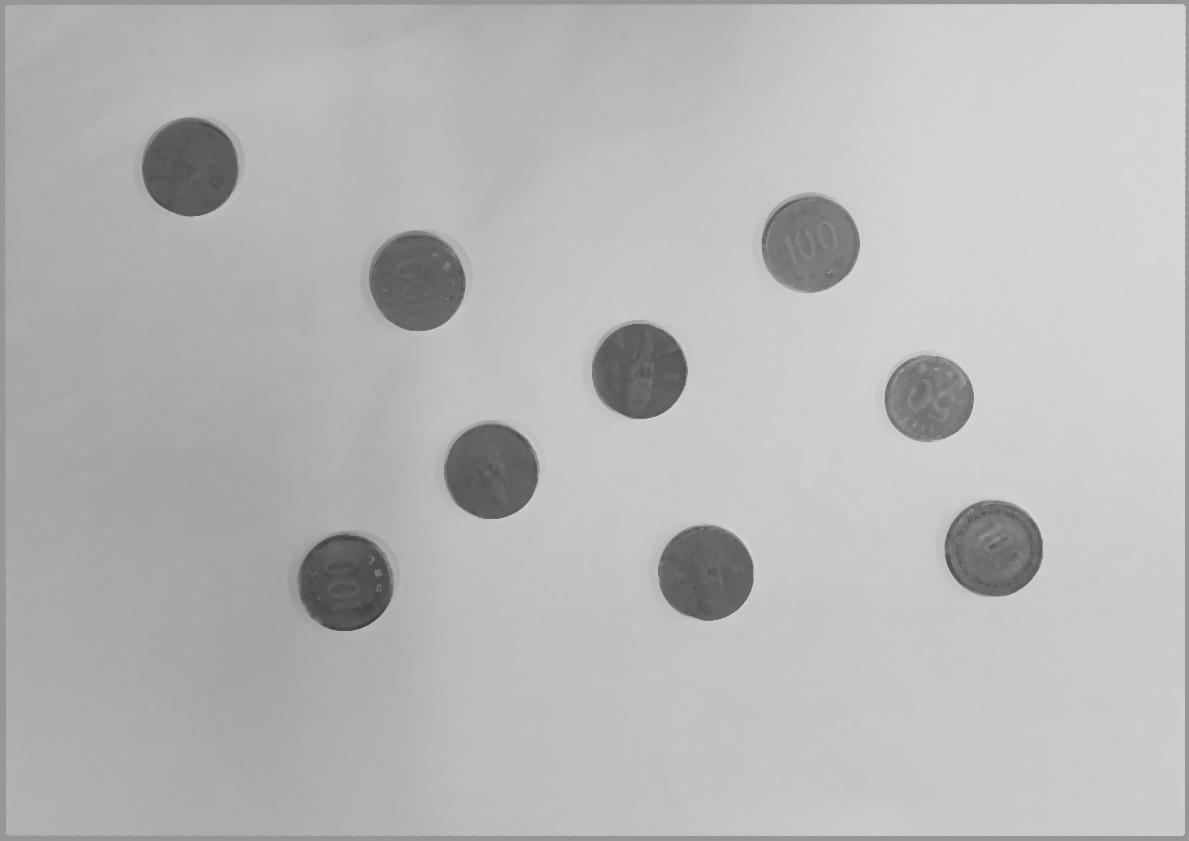
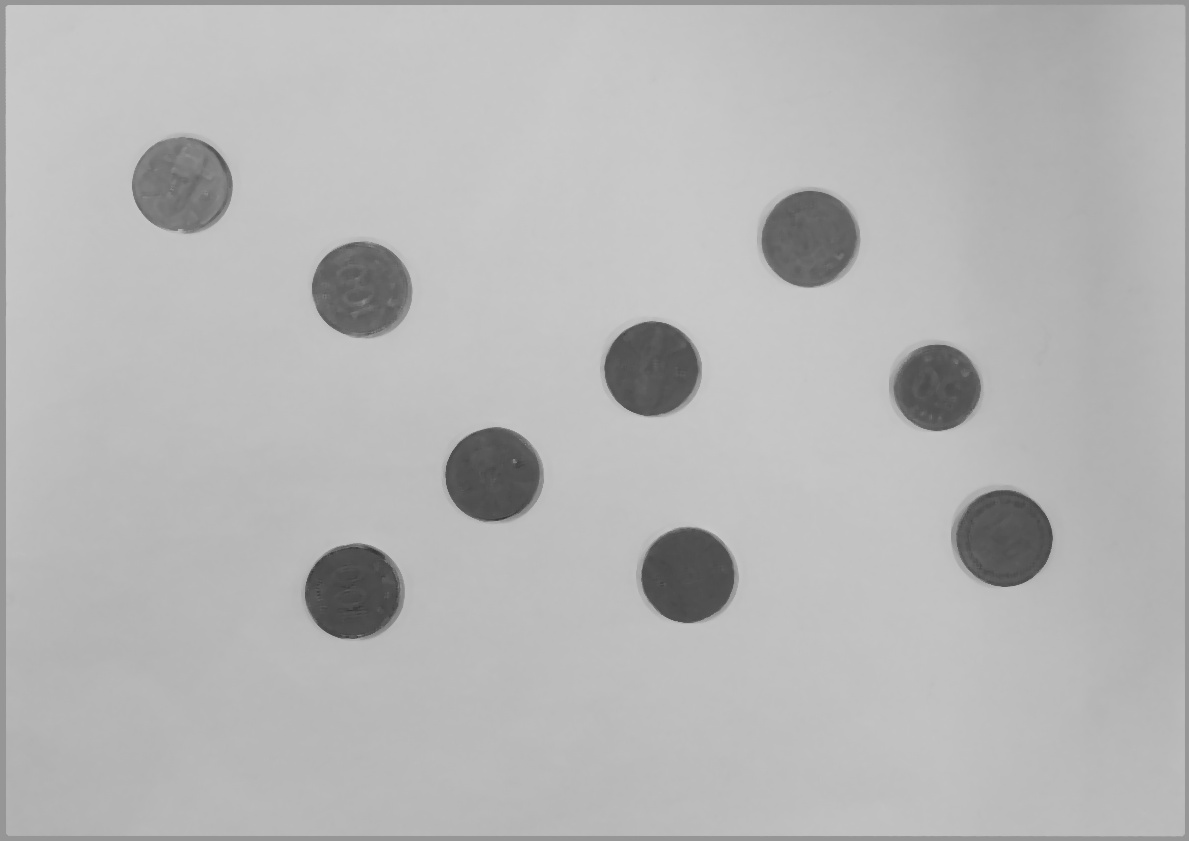
change

diff --git a/django/coinproject/coinapp/templates/totallist.html b/django/coinproject/coinapp/templates/totallist.html
@@ -85,9 +85,59 @@
               <h4 class="text-uppercase m-0">원본 사진</h4>
               <hr class="my-4">
               <div class="small text-black-50">
-              {% for pic in image.pic_set.all%}
-                <img src="{{pic.image.url}}" width="300"alt="picture">
-            {% endfor %}
+              <img src='{% static "coinapp/result/images/img_ori.jpg"%}' width="300"alt="picture">
+              </div>
+            </div>
+          </div>
+        </div>
+        
+        <div class="col-md-4 mb-4 mb-md-0">
+          <div class="card py-4 h-100">
+            <div class="card-body text-center">
+              <i class="fas fa-file-image text-primary mb-2"></i>
+              <h4 class="text-uppercase m-0">Blurring</h4>
+              <hr class="my-4">
+              <div class="small text-black-50">
+              <img src='{% static "coinapp/result/images/dst2.jpg"%}' width="300"alt="picture">
+              </div>
+            </div>
+          </div>
+        </div>
+        
+        <div class="col-md-4 mb-4 mb-md-0">
+          <div class="card py-4 h-100">
+            <div class="card-body text-center">
+              <i class="fas fa-file-image text-primary mb-2"></i>
+              <h4 class="text-uppercase m-0">adaptiveThreshold</h4>
+              <hr class="my-4">
+              <div class="small text-black-50">
+              <img src='{% static "coinapp/result/images/binary_img.jpg"%}' width="300"alt="picture">
+              
+              </div>
+            </div>
+          </div>
+        </div>
+        <div class="col-md-4 mb-4 mb-md-0">
+          <div class="card py-4 h-100">
+            <div class="card-body text-center">
+              <i class="fas fa-file-image text-primary mb-2"></i>
+              <h4 class="text-uppercase m-0">drawContours</h4>
+              <hr class="my-4">
+              <div class="small text-black-50">
+              <img src='{% static "coinapp/result/images/drawContoursimg.jpg"%}' width="300"alt="picture">
+              </div>
+            </div>
+          </div>
+        </div>
+        
+        <div class="col-md-4 mb-4 mb-md-0">
+          <div class="card py-4 h-100">
+            <div class="card-body text-center">
+              <i class="fas fa-file-image text-primary mb-2"></i>
+              <h4 class="text-uppercase m-0">warpPerspective</h4>
+              <hr class="my-4">
+              <div class="small text-black-50">
+              <img src='{% static "coinapp/result/images/warpPerspectiveimg.jpg"%}' width="300"alt="picture">
               </div>
             </div>
           </div>
@@ -105,29 +155,10 @@
             </div>
           </div>
         </div>
-        
-        <div class="col-md-4 mb-4 mb-md-0">
-          <div class="card py-4 h-100">
-            <div class="card-body text-center">
-              <i class="fas fa-coins text-primary mb-2"></i>
-              <h4 class="text-uppercase m-0">결과</h4>
-              <hr class="my-4">
-              <div class="small text-black-50">
-              <br><br>
-      <p>500원: {{fivehund}}개</p>
-      <p>100원: {{onehund}}개</p>
-      <p>50원: {{fifty}}개</p>
-      <p>10원: {{ten}}개</p>
-      <p>동전 총합: {{total}}원</p>
-              </div>
-            </div>
-          </div>
-        </div>
       </div>
       <div class="center2">
          <br>
           <a href="/#projects" class="btn btn-dark">다시하기</a>
-          <a href="../totallist/#projects" class="btn btn-dark">중간과정보기</a>
       </div>
   </section>
 

diff --git a/django/coinproject/coinapp/templates/index.html b/django/coinproject/coinapp/templates/index.html
@@ -9,7 +9,7 @@
   <meta name="description" content="">
   <meta name="author" content="">
 
-  <title>Grayscale - Start Bootstrap Theme</title>
+  <title>How Much is It - Image Processing Team1</title>
 
   <!-- Bootstrap core CSS -->
   <link href='{% static "coinapp/vendor/bootstrap/css/bootstrap.min.css"%}' rel="stylesheet">
@@ -29,7 +29,7 @@
   <!-- Navigation -->
   <nav class="navbar navbar-expand-lg navbar-light fixed-top" id="mainNav">
     <div class="container">
-      <a class="navbar-brand js-scroll-trigger" href="#page-top">Start Bootstrap</a>
+      <a class="navbar-brand js-scroll-trigger" href="#page-top">Image Processing Team1</a>
       <button class="navbar-toggler navbar-toggler-right" type="button" data-toggle="collapse" data-target="#navbarResponsive" aria-controls="navbarResponsive" aria-expanded="false" aria-label="Toggle navigation">
         Menu
         <i class="fas fa-bars"></i>
@@ -43,7 +43,7 @@
             <a class="nav-link js-scroll-trigger" href="#projects">Projects</a>
           </li>
           <li class="nav-item">
-            <a class="nav-link js-scroll-trigger" href="#signup">Contact</a>
+            <a class="nav-link js-scroll-trigger" href="#signup">Developer</a>
           </li>
         </ul>
       </div>
@@ -54,8 +54,8 @@
   <header class="masthead">
     <div class="container d-flex h-100 align-items-center">
       <div class="mx-auto text-center">
-        <h1 class="mx-auto my-0 text-uppercase">Grayscale</h1>
-        <h2 class="text-white-50 mx-auto mt-2 mb-5">A free, responsive, one page Bootstrap theme created by Start Bootstrap.</h2>
+        <h1 class="mx-auto my-0 text-uppercase">How Much is It</h1>
+        <h2 class="text-white-50 mx-auto mt-2 mb-5">A free, comfortable, one click detecting system created by Image_Processing_Team_01</h2>
         <a href="#about" class="btn btn-primary js-scroll-trigger">Get Started</a>
       </div>
     </div>
@@ -78,10 +78,10 @@
   <section id="projects" class="projects-section bg-light">
   <div class="row center">
 
-        <div class="col-md-6 mb-6 mb-md-0">
+        <div class="col-md-6">
           <div class="card py-4 h-100">
             <div class="card-body text-center">
-              <i class="fas fa-map-marked-alt text-primary mb-2"></i>
+              <i class="fas fa-camera text-primary mb-2"></i>
               <h4 class="text-uppercase m-0">사진 올리기</h4>
               <hr class="my-4">
               <div class="small text-black-50">

diff --git a/django/coinproject/coinapp/static/coinapp/css/grayscale.css b/django/coinproject/coinapp/static/coinapp/css/grayscale.css
@@ -90,7 +90,7 @@
   height: auto;
   min-height: 35rem;
   padding: 15rem 0;
-  background: linear-gradient(to bottom, rgba(22, 22, 22, 0.3) 0%, rgba(22, 22, 22, 0.7) 75%, #161616 100%), url("../img/bg-masthead.jpg");
+  background: linear-gradient(to bottom, rgba(22, 22, 22, 0.3) 0%, rgba(22, 22, 22, 0.7) 75%, #161616 100%), url("../img/coinproject.jpg");
   background-position: center;
   background-repeat: no-repeat;
   background-attachment: scroll;
@@ -204,7 +204,7 @@
 
 .signup-section {
   padding: 10rem 0;
-  background: linear-gradient(to bottom, rgba(22, 22, 22, 0.1) 0%, rgba(22, 22, 22, 0.5) 75%, #161616 100%), url("../img/bg-signup.jpg");
+  background: linear-gradient(to bottom, rgba(22, 22, 22, 0.1) 0%, rgba(22, 22, 22, 0.5) 75%, #161616 100%), url("../img/coinfoot.png");
   background-position: center;
   background-repeat: no-repeat;
   background-attachment: scroll;
@@ -297,7 +297,7 @@ footer {
 
 
 .center{
-    padding: 0 0 0 550px;
+    margin-left: 450px;
     text-align: center;
 }
 .center2{

diff --git a/django/coinproject/coinapp/.ipynb_checkpoints/views-checkpoint.py b/django/coinproject/coinapp/.ipynb_checkpoints/views-checkpoint.py
@@ -55,6 +55,7 @@ def imagelist(request):
         url = pic.image.url
         img = cv2.imread(url[1:])
         img_ori = img.copy()
+        cv2.imwrite('coinapp/static/coinapp/result/images/img_ori.jpg', img_ori)
         img_gray = cv2.cvtColor(img,cv2.COLOR_BGR2GRAY)
         cv2.imwrite('coinapp/static/coinapp/result/images/img_gray.jpg', img_gray)
         # Blurring
@@ -186,3 +187,6 @@ def imagelist(request):
         total = (500 * fivehund + 100 * onehund + 50 * fifty + 10 * ten)
         
     return render(request, 'imagelist.html', {'image':image, 'fivehund':fivehund, 'onehund':onehund, 'fifty':fifty, 'ten':ten, 'total':total})
+
+def totallist(request):
+    return render(request, 'totallist.html')

diff --git a/django/coinproject/coinapp/views.py b/django/coinproject/coinapp/views.py
@@ -55,6 +55,7 @@ def imagelist(request):
         url = pic.image.url
         img = cv2.imread(url[1:])
         img_ori = img.copy()
+        cv2.imwrite('coinapp/static/coinapp/result/images/img_ori.jpg', img_ori)
         img_gray = cv2.cvtColor(img,cv2.COLOR_BGR2GRAY)
         cv2.imwrite('coinapp/static/coinapp/result/images/img_gray.jpg', img_gray)
         # Blurring
@@ -186,3 +187,6 @@ def imagelist(request):
         total = (500 * fivehund + 100 * onehund + 50 * fifty + 10 * ten)
         
     return render(request, 'imagelist.html', {'image':image, 'fivehund':fivehund, 'onehund':onehund, 'fifty':fifty, 'ten':ten, 'total':total})
+
+def totallist(request):
+    return render(request, 'totallist.html')

diff --git a/django/coinproject/coinproject/.ipynb_checkpoints/urls-checkpoint.py b/django/coinproject/coinproject/.ipynb_checkpoints/urls-checkpoint.py
@@ -25,4 +25,5 @@ urlpatterns = [
     path('admin/', admin.site.urls),
     path('', coinapp.views.index, name="index"),
     path('imagelist/', coinapp.views.imagelist, name="imagelist"),
+    path('totallist/', coinapp.views.totallist, name="totallist"),
 ] + static(settings.MEDIA_URL, document_root=settings.MEDIA_ROOT)

diff --git a/django/coinproject/coinproject/urls.py b/django/coinproject/coinproject/urls.py
@@ -25,4 +25,5 @@ urlpatterns = [
     path('admin/', admin.site.urls),
     path('', coinapp.views.index, name="index"),
     path('imagelist/', coinapp.views.imagelist, name="imagelist"),
+    path('totallist/', coinapp.views.totallist, name="totallist"),
 ] + static(settings.MEDIA_URL, document_root=settings.MEDIA_ROOT)
